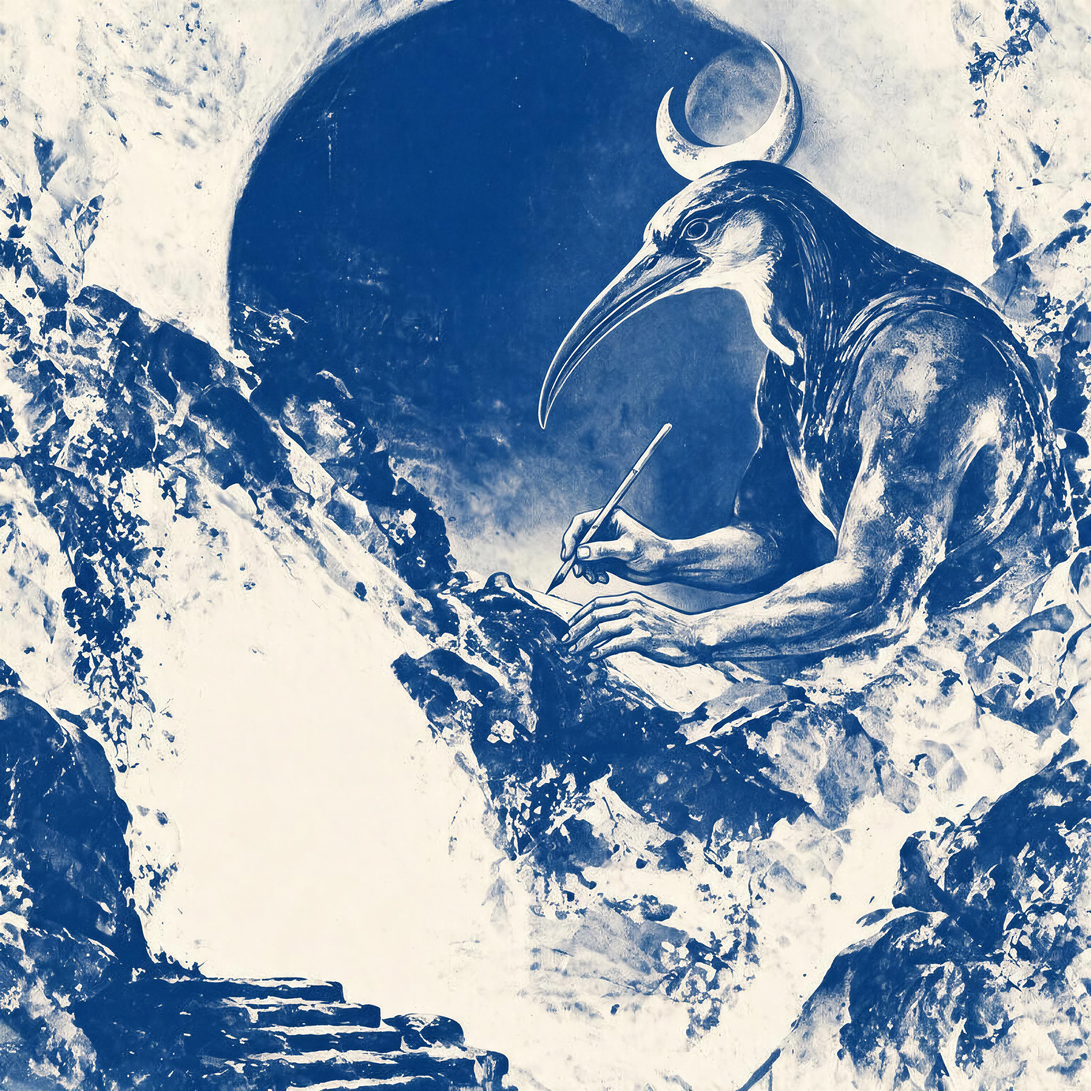
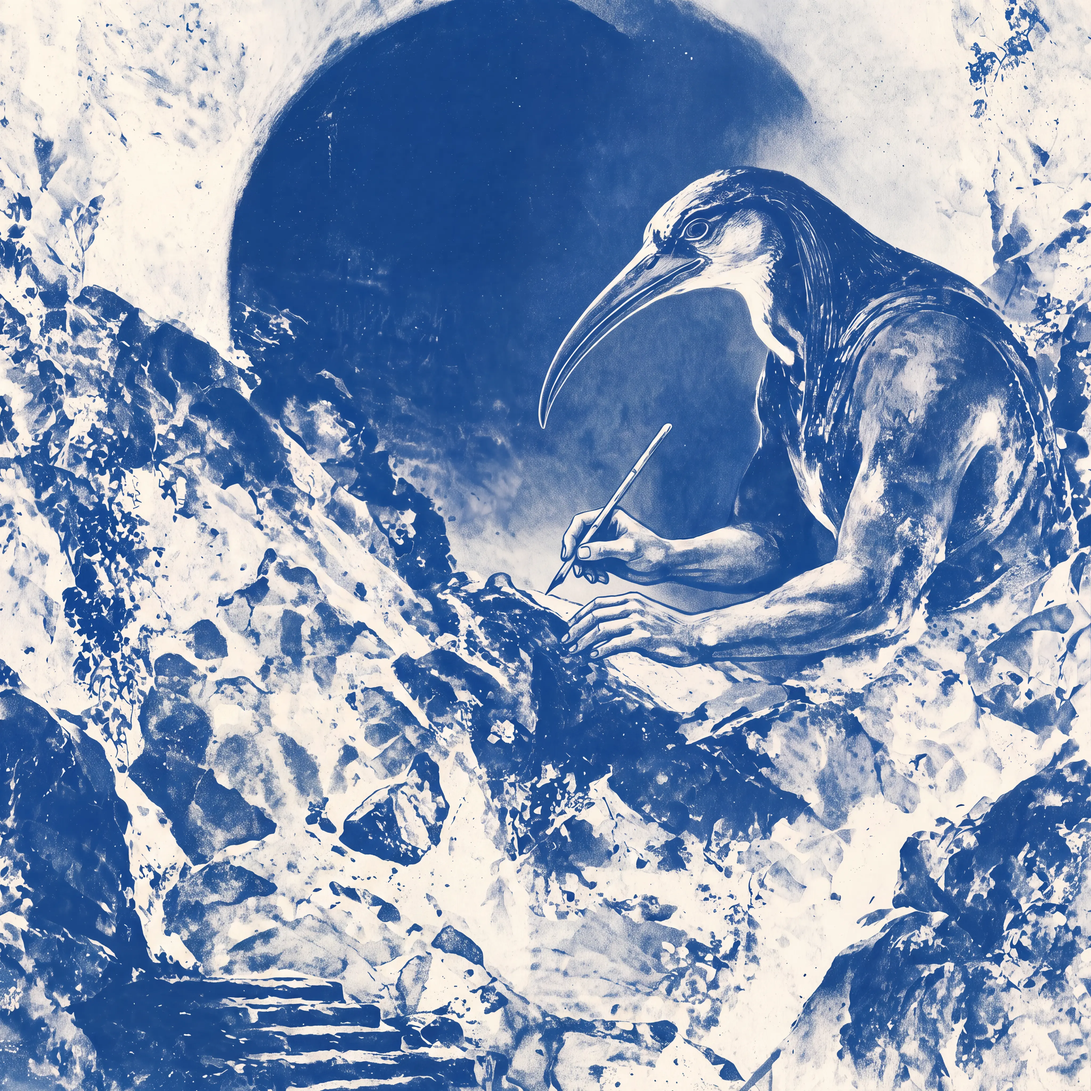
feat: switch bg

diff --git a/resources/css/external.css b/resources/css/external.css
@@ -44,7 +44,7 @@
 
 .external-backdrop__art img {
     position: absolute;
-    top: 0;
+    top: -15dvh;
     right: 0;
     width: auto;
     min-width: 100dvw;
@@ -396,7 +396,8 @@
 
 @media (max-width: 760px) {
     .external-backdrop__art img {
-        right: -22dvw;
+        top: -10dvh;
+        right: -30dvw;
         min-width: 0;
         height: 125dvh;
         object-position: 72% top;
